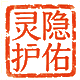
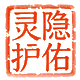
fix: feathered edges on seal stamp for better blending with background

diff --git a/css/style.css b/css/style.css
@@ -438,13 +438,14 @@ body {
     left: 15px;
     z-index: 20;
     cursor: pointer;
-    opacity: 0.7;
-    transition: opacity 0.3s;
+    opacity: 0.65;
+    transition: opacity 0.3s, transform 0.2s;
+    filter: drop-shadow(0 0 3px rgba(0,0,0,0.3));
 }
 
 .seal-btn:active {
     opacity: 1;
-    transform: scale(0.95);
+    transform: scale(0.92);
 }
 
 .seal-icon {